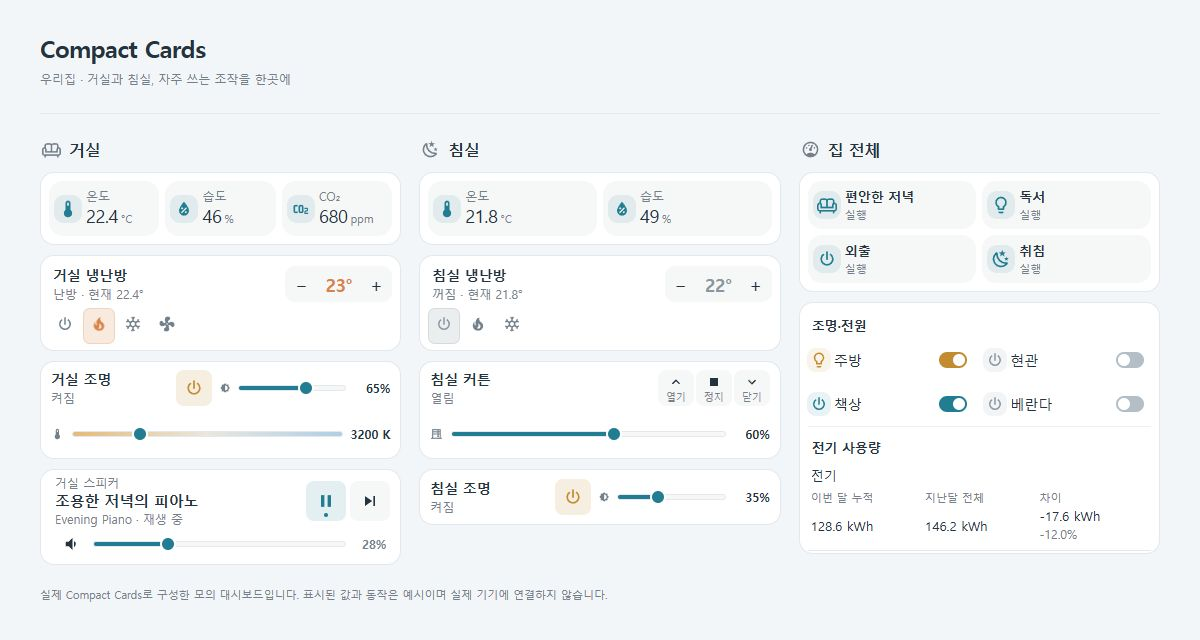
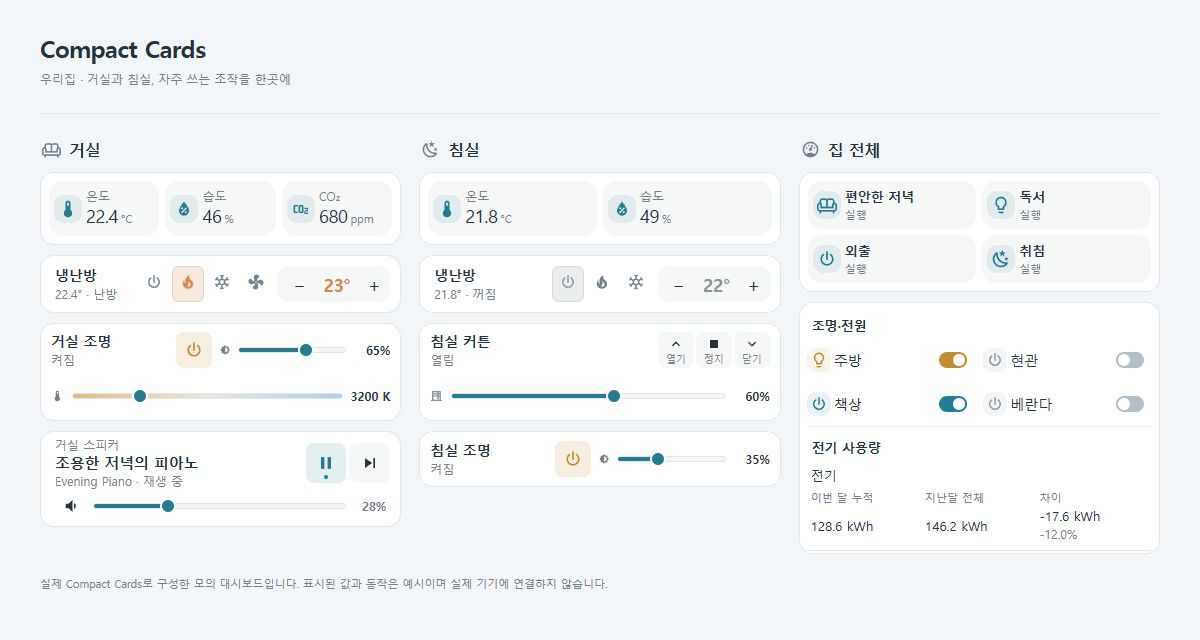
Keep climate cards compact with measured inline fit and intrinsic height

diff --git a/examples/climate-fit.html b/examples/climate-fit.html
@@ -1,0 +1,61 @@
+<!doctype html>
+<html lang="ko">
+<head>
+<meta charset="utf-8"><meta name="viewport" content="width=device-width,initial-scale=1">
+<title>Compact Cards · 냉난방 너비·높이 확인</title>
+<style>
+:root{font-family:system-ui,-apple-system,"Segoe UI",sans-serif;color-scheme:light;--primary-color:#237d92;--primary-text-color:#24333e;--secondary-text-color:#74818b;--divider-color:#e2e8ed;--disabled-color:#b4bec6;--card-background-color:#fff;--secondary-background-color:#f0f4f6;--state-active-color:#237d92;--state-inactive-color:#8a97a0;--state-unavailable-color:#8a97a0;--state-climate-heat-color:#d98346;--state-climate-cool-color:#388ebc;--state-climate-fan_only-color:#398f85;--ha-card-border-radius:14px;color:var(--primary-text-color);background:#f3f6f8}
+:root[data-theme=dark]{color-scheme:dark;--primary-color:#78b9c8;--primary-text-color:#e5edf1;--secondary-text-color:#9aaab5;--divider-color:#34434c;--disabled-color:#61737d;--card-background-color:#1d2931;--secondary-background-color:#273740;--state-active-color:#78b9c8;--state-inactive-color:#7a8c97;--state-climate-heat-color:#e4a16d;--state-climate-cool-color:#79bddd;--state-climate-fan_only-color:#81bdb1;background:#121d25}
+*{box-sizing:border-box}body{margin:0;padding:24px}h1{font-size:19px;margin:0 0 8px}p,footer{font-size:12px;line-height:1.5;color:var(--secondary-text-color)}nav{display:flex;flex-wrap:wrap;gap:8px;align-items:center;margin:16px 0 22px}nav label{font-size:12px}nav button,nav select{font:inherit;font-size:12px;min-height:36px;padding:6px 10px;border:1px solid var(--divider-color);border-radius:8px;color:var(--primary-text-color);background:var(--card-background-color)}nav button{cursor:pointer}nav button:focus-visible,nav select:focus-visible{outline:2px solid var(--primary-color);outline-offset:2px}.fixtures{display:flex;flex-wrap:wrap;gap:24px;align-items:flex-start}.fixture{min-width:0;max-width:100%}.panel-fixture{width:var(--panel-width,390px)}.picker-fixture{width:280px}.fixture-title{font-size:13px;font-weight:500;margin:0 0 10px}.picker-slot{width:280px;max-width:100%;height:320px;display:grid;align-items:stretch;grid-template-columns:minmax(0,1fr);grid-template-rows:minmax(0,1fr);outline:1px dashed var(--divider-color);outline-offset:4px}footer{margin-top:20px;max-width:600px}#feedback:empty{display:none}body.capture{padding:8px}.capture header,.capture nav,.capture .fixture-title{display:none}@media(max-width:480px){body{padding:16px}.fixtures{gap:20px}}
+</style>
+<script>
+const fitParams=new URLSearchParams(location.search);
+document.documentElement.dataset.theme=fitParams.get('theme')==='dark'?'dark':'light';
+</script>
+</head>
+<body>
+<header><h1>냉난방 카드의 너비·높이</h1><p>같은 실제 카드 구현을 패널과 고정 높이 미리보기 부모 안에서 비교합니다.</p></header>
+<nav><label>패널 너비 <select id="width" aria-label="패널 너비"><option value="320">320px</option><option value="390" selected>390px</option><option value="480">480px</option></select></label><button id="theme" type="button">테마 변경</button></nav>
+<main class="fixtures" aria-label="냉난방 크기 검증용 모의 화면"></main>
+<footer>실제 카드 코드 · 모의 상태 · 실제 기기 제어 없음</footer>
+<p id="feedback" role="status" aria-live="polite"></p>
+<script src="preview-icons.js"></script>
+<script>
+// Only HA's visual primitives are substituted; card content/layout comes from compact-cards.js.
+customElements.define('ha-card',class extends HTMLElement{constructor(){super();this.attachShadow({mode:'open'}).innerHTML='<style>:host{display:block;background:var(--card-background-color);border:1px solid var(--divider-color);border-radius:var(--ha-card-border-radius,14px);color:var(--primary-text-color)}</style><slot></slot>';}});
+customElements.define('ha-icon',class extends HTMLElement{
+ constructor(){super();this.attachShadow({mode:'open'});this._observer=new MutationObserver(()=>this.update());}
+ connectedCallback(){this.update();this._observer.observe(this,{attributes:true,attributeFilter:['icon']});}
+ disconnectedCallback(){this._observer.disconnect();}
+ update(){const path=window.compactPreviewIcons?.[(this.getAttribute('icon')||'').replace('mdi:','')];this.shadowRoot.innerHTML='<style>:host{display:inline-flex;align-items:center;justify-content:center}</style>';if(!path)return;const svg=document.createElementNS('http://www.w3.org/2000/svg','svg'),glyph=document.createElementNS('http://www.w3.org/2000/svg','path');svg.setAttribute('viewBox','0 0 24 24');svg.setAttribute('width','100%');svg.setAttribute('height','100%');svg.setAttribute('fill','currentColor');glyph.setAttribute('d',path);svg.append(glyph);this.shadowRoot.append(svg);}
+});
+if(fitParams.get('capture')==='true')document.body.classList.add('capture');
+const requestedWidth=Number(fitParams.get('width')),panelWidth=[320,390,480].includes(requestedWidth)?requestedWidth:390;
+document.documentElement.style.setProperty('--panel-width',panelWidth+'px');document.querySelector('#width').value=String(panelWidth);
+</script>
+<script src="../compact-cards.js"></script>
+<script>
+const fitStates={
+ 'climate.demo_boiler':{entity_id:'climate.demo_boiler',state:'heat',attributes:{friendly_name:'보일러',temperature:25,current_temperature:25,min_temp:16,max_temp:30,target_temp_step:1,supported_features:1,hvac_modes:['off','heat'],hvac_action:'idle'}},
+ 'climate.demo_ac':{entity_id:'climate.demo_ac',state:'cool',attributes:{friendly_name:'에어컨',temperature:24,current_temperature:27.5,min_temp:16,max_temp:30,target_temp_step:1,supported_features:1,hvac_modes:['off','cool','fan_only','dry','auto'],hvac_action:'cooling'}},
+};
+const fitCards=[];
+const fitHass={states:fitStates,config:{unit_system:{temperature:'°C'}},formatEntityState:state=>({off:'꺼짐',heat:'난방',cool:'냉방',fan_only:'송풍',dry:'제습',auto:'자동'}[state.state]||state.state),callService:async(domain,service,data)=>{
+ if(domain!=='climate')throw new Error('모의 냉난방 서비스만 지원합니다.');
+ await new Promise(resolve=>setTimeout(resolve,250));const state=fitStates[data.entity_id];if(!state)throw new Error('모의 엔티티를 찾을 수 없습니다.');
+ if(service==='set_temperature')state.attributes.temperature=data.temperature;
+ if(service==='set_hvac_mode'){state.state=data.hvac_mode;state.attributes.hvac_action=({off:'off',heat:'heating',cool:'cooling',fan_only:'fan',dry:'drying',auto:'idle'}[data.hvac_mode]||'idle');}
+ for(const card of fitCards)card.hass={...fitHass};
+}};
+function addFitTarget(kind,title,config){const section=document.createElement('section');section.className=`fixture ${kind}-fixture`;section.dataset.target=kind;const heading=document.createElement('h2');heading.className='fixture-title';heading.textContent=title;section.append(heading);const card=document.createElement(config.type.replace('custom:',''));card.id=kind==='panel'?'panel-card':'picker-card';card.setConfig(config);card.hass=fitHass;if(kind==='picker'){const slot=document.createElement('div');slot.className='picker-slot';slot.id='picker-slot';slot.append(card);section.append(slot);}else section.append(card);document.querySelector('main').append(section);fitCards.push(card);}
+const target=fitParams.get('target');
+if(!target||target==='panel')addFitTarget('panel','홈 패널 · 보일러 2모드 / 에어컨 5모드',{type:'custom:compact-home-panel',items:[{type:'climate',entity:'climate.demo_boiler',name:'보일러'},{type:'climate',entity:'climate.demo_ac',name:'에어컨'}]});
+if(!target||target==='picker')addFitTarget('picker','단독 카드 · 280 × 320px 그리드 부모',{type:'custom:compact-climate-row',entity:'climate.demo_ac',name:'에어컨'});
+if(target&&!['panel','picker'].includes(target))document.querySelector('#feedback').textContent='target은 panel 또는 picker로 지정하세요.';
+document.querySelector('#width').onchange=event=>document.documentElement.style.setProperty('--panel-width',event.target.value+'px');
+document.querySelector('#theme').onclick=()=>document.documentElement.dataset.theme=document.documentElement.dataset.theme==='dark'?'light':'dark';
+document.addEventListener('hass-more-info',event=>{const state=fitStates[event.detail.entityId];document.querySelector('#feedback').textContent=`${state.attributes.friendly_name} · ${fitHass.formatEntityState(state)} · 설정 ${state.attributes.temperature}°C (모의 정보)`;});
+document.addEventListener('hass-notification',event=>document.querySelector('#feedback').textContent=event.detail.message);
+</script>
+</body>
+</html>

diff --git a/compact-cards.js b/compact-cards.js
@@ -92,8 +92,8 @@ class CompactClimateRow extends HTMLElement {
     this._busy = false;
     this.shadowRoot.innerHTML = `
       <style>
-        :host{display:block;height:100%;container-type:inline-size;--row-color:var(--primary-text-color)}
-        ha-card{height:100%;min-height:56px;box-sizing:border-box;display:grid;grid-template-columns:minmax(90px,1fr) auto auto;align-items:center;gap:6px;padding:6px 10px;overflow:hidden}
+        :host{display:block;container-type:inline-size;--row-color:var(--primary-text-color)}
+        ha-card{min-height:56px;box-sizing:border-box;display:grid;grid-template-columns:minmax(0,1fr) auto auto;align-items:center;align-content:start;gap:6px;padding:6px 10px;overflow:hidden}
         button{font:inherit;color:var(--row-color);background:transparent;border:0;border-radius:7px;min-height:36px;padding:4px;cursor:pointer;flex:none;touch-action:manipulation;position:relative}
         button:focus-visible{outline:2px solid var(--primary-color);outline-offset:-2px}
         button:disabled{opacity:.35;cursor:default}
@@ -117,9 +117,10 @@ class CompactClimateRow extends HTMLElement {
         .temperature{border-left:1px solid var(--divider-color);padding-left:5px}
         .temperature button{width:32px;font-size:18px}
         output{font-size:14px;font-variant-numeric:tabular-nums;min-width:39px;text-align:center;white-space:nowrap}
-        @container(max-width:380px){ha-card{grid-template-columns:minmax(0,1fr) auto;padding:6px 8px;gap:2px 6px}.modes{grid-row:2;grid-column:1/-1;flex-wrap:wrap}.temperature{grid-column:2;grid-row:1;border:0;padding:0}}
-        @container(max-width:540px){ha-card.many-modes{grid-template-columns:minmax(0,1fr) auto;gap:2px 6px}.many-modes .modes{grid-row:2;grid-column:1/-1;flex-wrap:wrap}.many-modes .temperature{grid-column:2;grid-row:1;border:0;padding:0}}
-        @media(pointer:coarse){button{min-height:44px}.modes button,.temperature button{width:44px}.modes{flex-wrap:wrap;max-width:100%}@container(max-width:640px){ha-card.many-modes{grid-template-columns:minmax(0,1fr) auto;gap:2px 6px}.many-modes .modes{grid-row:2;grid-column:1/-1}.many-modes .temperature{grid-column:2;grid-row:1;border:0;padding:0}}@container(max-width:440px){ha-card{grid-template-columns:minmax(0,1fr) auto;gap:2px 6px}.modes{grid-row:2;grid-column:1/-1}.temperature{grid-column:2;grid-row:1;border:0;padding:0}}}
+        ha-card.wrap-modes{grid-template-columns:minmax(0,1fr) auto;gap:2px 6px}
+        .wrap-modes .modes{grid-row:2;grid-column:1/-1;flex-wrap:wrap;min-width:0;max-width:100%}
+        .wrap-modes .temperature{grid-column:2;grid-row:1}
+        @media(pointer:coarse){button{min-height:44px}.modes button,.temperature button{width:44px}}
         :host([embedded]) ha-card{min-height:48px;border:0;box-shadow:none;background:transparent;padding:4px 0}
       </style>
       <ha-card>
@@ -130,6 +131,10 @@ class CompactClimateRow extends HTMLElement {
         </div>
       </ha-card>`;
     compactInteractions(this);
+    if(typeof ResizeObserver==='function')this._resize=new ResizeObserver(()=>{
+      if(this._layoutFrame!==undefined)return;
+      this._layoutFrame=requestAnimationFrame(()=>{this._layoutFrame=undefined;this._layout();});
+    });
     this.shadowRoot.querySelector('.info').onclick = () => this.dispatchEvent(new CustomEvent('hass-more-info', { detail: { entityId: this._config.entity }, bubbles: true, composed: true }));
     this.shadowRoot.querySelector('.minus').onclick = () => this._step(-1);
     this.shadowRoot.querySelector('.plus').onclick = () => this._step(1);
@@ -143,8 +148,23 @@ class CompactClimateRow extends HTMLElement {
     this._render();
   }
   set hass(value) { this._hass = value; this._render(); }
-  disconnectedCallback(){compactClearFeedback(this);}
-  getCardSize() { return (this._hass?.states[this._config?.entity]?.attributes.hvac_modes?.length || 0) > 3 ? 2 : 1; }
+  connectedCallback(){this._resize?.observe(this);this._resize?.observe(this.shadowRoot.querySelector('.temperature'));this._layout();}
+  disconnectedCallback(){compactClearFeedback(this);this._resize?.disconnect();if(this._layoutFrame!==undefined)cancelAnimationFrame(this._layoutFrame);this._layoutFrame=undefined;}
+  _layout() {
+    const card=this.shadowRoot.querySelector('ha-card');
+    if(!card.clientWidth)return;
+    const styles=getComputedStyle(card),modes=this.shadowRoot.querySelector('.modes'),buttons=[...modes.children];
+    const gap=parseFloat(getComputedStyle(modes).columnGap)||0;
+    const modesWidth=buttons.reduce((width,button)=>width+button.getBoundingClientRect().width,0)+Math.max(0,buttons.length-1)*gap;
+    const available=card.clientWidth-(parseFloat(styles.paddingLeft)||0)-(parseFloat(styles.paddingRight)||0);
+    // Reserve a short readable name/current-temperature column; long captions retain their tooltip.
+    const required=72+modesWidth+this.shadowRoot.querySelector('.temperature').getBoundingClientRect().width+2*(parseFloat(styles.columnGap)||0);
+    card.classList.toggle('wrap-modes',required>available);
+  }
+  getCardSize() {
+    if(!this.shadowRoot.querySelector('ha-card').classList.contains('wrap-modes'))return 1;
+    return 1+Math.max(1,new Set([...this.shadowRoot.querySelector('.modes').children].map(button=>button.offsetTop)).size);
+  }
   static getStubConfig(hass) {
     return { entity: Object.keys(hass?.states || {}).find(id => id.startsWith('climate.')) || 'climate.living_room' };
   }
@@ -166,7 +186,10 @@ class CompactClimateRow extends HTMLElement {
     const offline = !s || ['unknown', 'unavailable'].includes(s.state);
     compactStyle(this.shadowRoot.querySelector('ha-card'),'--climate-color', this._modeColor(offline ? 'unavailable' : s.state));
     compactText(this.shadowRoot.querySelector('.name'),this._config.name || a.friendly_name || this._config.entity);
-    compactText(this.shadowRoot.querySelector('.state'),offline ? '확인 불가' : `${this._hass.formatEntityState?.(s) || s.state}${a.current_temperature != null ? ' · 현재 ' + a.current_temperature + '°' : ''}`);
+    compactText(this.shadowRoot.querySelector('.state'),offline ? '확인 불가' : `${a.current_temperature != null ? a.current_temperature + '° · ' : ''}${this._hass.formatEntityState?.(s) || s.state}`);
+    const description=`${this.shadowRoot.querySelector('.name').textContent}: ${!offline&&a.current_temperature!=null?'현재 ':''}${this.shadowRoot.querySelector('.state').textContent}`;
+    compactProp(this.shadowRoot.querySelector('.info'),'title',description);
+    compactAttr(this.shadowRoot.querySelector('.info'),'aria-label',description);
     const defs = { off:['mdi:power','끄기'], heat:['mdi:fire','난방'], cool:['mdi:snowflake','냉방'], dry:['mdi:water-percent','제습'], fan_only:['mdi:fan','송풍'], auto:['mdi:alpha-a-circle','자동'], heat_cool:['mdi:thermostat-auto','냉난방 자동'] };
     const modes = Array.isArray(a.hvac_modes) ? a.hvac_modes : [];
     this.shadowRoot.querySelector('ha-card').classList.toggle('many-modes',modes.length>3);
@@ -205,6 +228,7 @@ class CompactClimateRow extends HTMLElement {
     compactProp(minus,'disabled',offline || this._busy || !valid || !supported || (a.min_temp != null && t <= a.min_temp));
     compactProp(plus,'disabled',offline || this._busy || !valid || !supported || (a.max_temp != null && t >= a.max_temp));
     for(const button of [minus,plus]){compactAttr(button,'aria-busy',this._busy);compactAttr(button,'aria-disabled',button.disabled || this._busy);}
+    this._layout();
   }
   _step(direction) {
     const s = this._hass?.states[this._config.entity];

diff --git a/examples/showcase.html b/examples/showcase.html
@@ -34,8 +34,8 @@ if(showcaseParams.get('capture')==='true')document.body.classList.add('capture')
 <script>
 const entity=(id,state,attributes)=>({entity_id:id,state,attributes});
 const initial={
- 'climate.living_room':entity('climate.living_room','heat',{friendly_name:'거실 냉난방',current_temperature:22.4,temperature:23,min_temp:16,max_temp:30,target_temp_step:.5,supported_features:1,hvac_modes:['off','heat','cool','fan_only'],hvac_action:'heating'}),
- 'climate.bedroom':entity('climate.bedroom','off',{friendly_name:'침실 냉난방',current_temperature:21.8,temperature:22,min_temp:16,max_temp:30,target_temp_step:.5,supported_features:1,hvac_modes:['off','heat','cool'],hvac_action:'off'}),
+ 'climate.living_room':entity('climate.living_room','heat',{friendly_name:'냉난방',current_temperature:22.4,temperature:23,min_temp:16,max_temp:30,target_temp_step:.5,supported_features:1,hvac_modes:['off','heat','cool','fan_only'],hvac_action:'heating'}),
+ 'climate.bedroom':entity('climate.bedroom','off',{friendly_name:'냉난방',current_temperature:21.8,temperature:22,min_temp:16,max_temp:30,target_temp_step:.5,supported_features:1,hvac_modes:['off','heat','cool'],hvac_action:'off'}),
  'light.living_room':entity('light.living_room','on',{friendly_name:'거실 조명',brightness:166,supported_color_modes:['color_temp'],color_temp_kelvin:3200,min_color_temp_kelvin:2200,max_color_temp_kelvin:6500}),
  'light.bedroom':entity('light.bedroom','on',{friendly_name:'침실 조명',brightness:89,supported_color_modes:['brightness']}),
  'light.kitchen':entity('light.kitchen','on',{friendly_name:'주방 조명',supported_color_modes:['onoff']}),
@@ -60,13 +60,13 @@ const initial={
 const rooms=[
  {name:'거실',icon:'mdi:sofa-outline',cards:[
   {type:'custom:compact-environment-panel',items:[{entity:'sensor.living_temperature',name:'온도'},{entity:'sensor.living_humidity',name:'습도'},{entity:'sensor.living_co2',name:'CO₂'}]},
-  {type:'custom:compact-climate-row',entity:'climate.living_room',name:'거실 냉난방'},
+  {type:'custom:compact-climate-row',entity:'climate.living_room',name:'냉난방'},
   {type:'custom:compact-light-row',entity:'light.living_room',name:'거실 조명'},
   {type:'custom:compact-media-row',entity:'media_player.living_room',name:'거실 스피커'},
  ]},
  {name:'침실',icon:'mdi:weather-night',cards:[
   {type:'custom:compact-environment-panel',items:[{entity:'sensor.bedroom_temperature',name:'온도'},{entity:'sensor.bedroom_humidity',name:'습도'}]},
-  {type:'custom:compact-climate-row',entity:'climate.bedroom',name:'침실 냉난방'},
+  {type:'custom:compact-climate-row',entity:'climate.bedroom',name:'냉난방'},
   {type:'custom:compact-cover-row',entity:'cover.bedroom',name:'침실 커튼'},
   {type:'custom:compact-light-row',entity:'light.bedroom',name:'침실 조명'},
  ]},

diff --git a/docs/compact-climate-row.md b/docs/compact-climate-row.md
@@ -48,11 +48,28 @@ name: 거실 냉난방
 
 ## 좁은 카드와 터치 환경
 
-카드 너비가 380px 이하이면 모드 버튼을 이름·온도 아래로 옮깁니다. 모드가 네 개 이상인 기기는 540px 이하에서 아래로 옮기고, 터치 환경에서는 이 기준을 640px로 넓힙니다. 터치 환경에서는 일반적인 모드 수에서도 440px 이하에서 아래로 배치합니다. 모드가 많으면 추가로 감싸며 버튼을 작게 압축하지 않습니다.
+![390px 패널에서 한 줄로 배치한 보일러와 에어컨](../images/compact-climate-inline.jpg)
+
+위 예시는 실제 카드 코드와 모의 상태를 사용하는 390px 홈 패널입니다. 보일러의 두 모드와 에어컨의 다섯 모드가 각각 한 줄로 배치됩니다. 현재 온도를 보조 텍스트 앞에 표시해 좁은 이름 영역에서도 숫자를 먼저 읽을 수 있으며, 전체 상태는 툴팁과 접근성 이름으로 제공합니다.
+
+이름 공간과 실제 모드 버튼·온도 조작부의 너비를 확인하여, 공간이 충분하면 한 줄로 표시합니다. 고정된 화면 너비나 모드 개수만으로 두 줄을 만들지 않습니다. 한 줄에 들어가지 않을 때만 모드 버튼을 이름·온도 아래로 옮기며, 아래 줄에서도 공간이 부족하면 버튼을 감쌉니다.
+
+기기가 제공하는 모든 모드 버튼을 아이콘 중심으로 유지합니다. 줄을 줄이기 위해 모드를 숨기거나 드롭다운으로 바꾸지 않으며, 터치 환경의 44px 모드·온도 조작 영역도 유지합니다. 같은 너비라도 기기의 모드 수와 실제 조작부 너비에 따라 한 줄 또는 여러 줄로 배치될 수 있습니다.
+
+카드 본문은 내용에 필요한 높이를 사용하며, 편집 미리보기의 빈 높이를 채우기 위해 늘어나지 않습니다. 대시보드에서 카드 바깥에 별도로 지정한 그리드 행 높이나 여백은 대시보드 배치 설정에 따라 남을 수 있습니다.
 
 터치 환경의 모드·온도 버튼은 44px 조작 영역을 사용합니다. 지원하는 기기에서는 실제 운전 동작에 따라 아이콘이 움직이고, 운영체제의 동작 줄이기 설정에서는 애니메이션을 중지합니다.
 
 서비스 요청 중에는 모드·온도 제어를 비활성화하고 조작부를 살짝 흐리게 표시하여 처리 중임을 알립니다. 요청이 끝나면 다시 조작할 수 있습니다. 서비스 응답과 기기의 실제 상태 갱신 시점은 통합에 따라 다르며, 화면 상태는 Home Assistant가 보고한 값으로 표시합니다. 요청 실패 시 알림을 표시하고 버튼을 복구합니다.
+
+<details>
+<summary>고정 높이 부모 안의 카드 미리보기</summary>
+
+![320px 높이 부모 안에서 내용 높이만 사용하는 단독 카드](../images/compact-climate-picker.jpg)
+
+점선은 280 × 320px 모의 미리보기 부모이며, 내부 카드의 CSS는 실제 구현 그대로입니다. 카드가 부모 높이를 채우지 않고 내용 높이만 사용합니다. `examples/climate-fit.html`에서 재현할 수 있으며 실제 HA 연결 화면은 아닙니다.
+
+</details>
 
 ## 홈 패널에 넣기
 
@@ -79,4 +96,4 @@ items:
 
 Use `custom:compact-climate-row` with a required `climate.*` `entity` and optional `name`. Tap the name to open more-info; mode buttons request supported HVAC modes, and −/+ follows the device step and limits. A single target-temperature feature and a numeric temperature are required for temperature controls. Range-only thermostats need more-info for range adjustment.
 
-Modes wrap below the name and temperature on narrow cards; coarse-pointer devices get 44px targets. Controls disable and dim subtly during service requests, then recover after success or failure. Reported state comes from Home Assistant. Embed the same card using `type: climate` in a home panel. The representative image uses mocked local preview data.
+The card keeps the name, modes and temperature on one line whenever their measured widths fit. Modes move below the name and temperature only when needed, then wrap if necessary. All supported mode buttons remain visible and icon-centered; coarse-pointer controls retain 44px targets. The card uses its content height instead of stretching to fill editor preview space; dashboard grid settings may still reserve external space. Controls disable and dim subtly during service requests, then recover after success or failure. Reported state comes from Home Assistant. Embed the same card using `type: climate` in a home panel. The representative image uses mocked local preview data.

diff --git a/CHANGELOG.md b/CHANGELOG.md
@@ -4,6 +4,8 @@
 
 - Replace dotted request outlines and pending/success card-edge flashes with subtle control dimming across cards. Remove button shrink/rebound effects while retaining keyboard focus, duplicate-request guards, actual-state colors and error feedback.
 
+- Keep climate rows at their content height, including editor previews, and wrap mode controls only when their measured widths need another line. Preserve all icon-only modes and 44px coarse-pointer targets instead of forcing extra rows at fixed breakpoints.
+
 ## 0.1.1 — 2026-10-30
 
 - Support explicit home-panel name-tap `toggle` and `more-info` actions in YAML and the visual editor while preserving default/legacy service-button behavior, dedicated right-hand controls, toggle confirmations, and unavailable/duplicate-request guards. Toggle requires the item's own explicit entity; this does not add the full Home Assistant action schema or hold/double-tap support.
